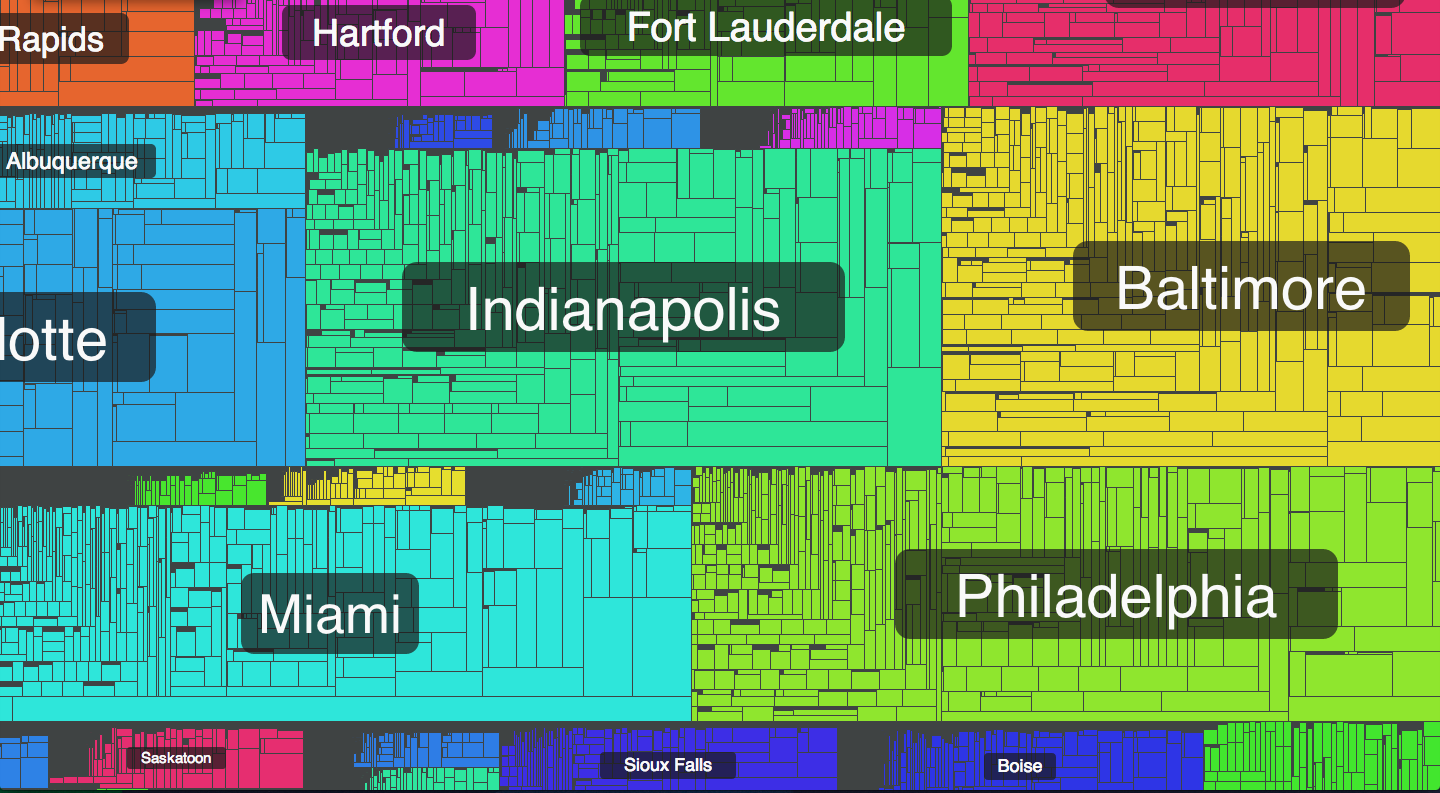
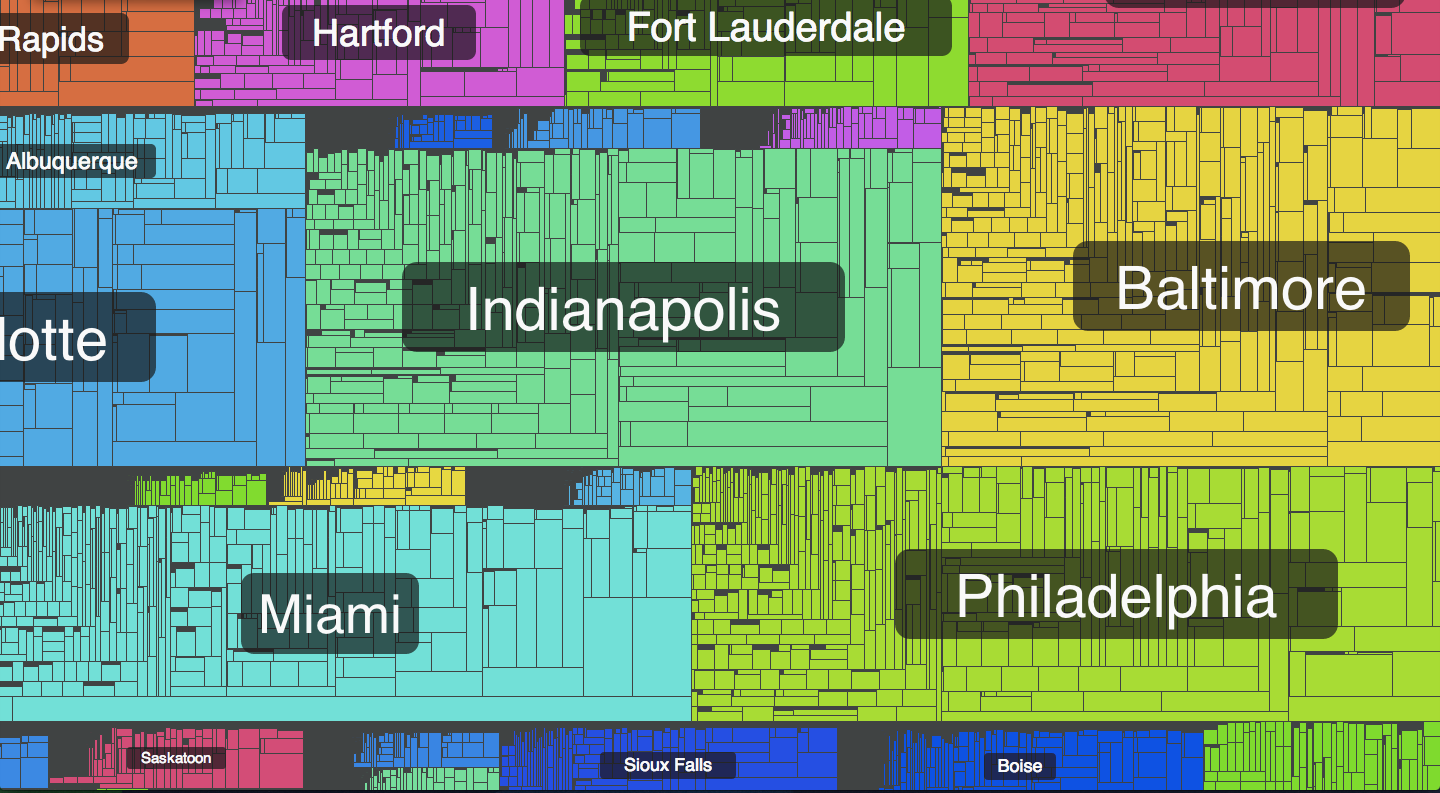
re-did image generation

diff --git a/src/documents/styles/screen.css.scss b/src/documents/styles/screen.css.scss
@@ -10,7 +10,7 @@ body {
 
 div.header {
   background-color: black;
-  padding: 20px 0;
+  padding: 10px 0;
   margin-bottom: 30px;
 
   .head-inner {
@@ -22,7 +22,7 @@ div.header {
     position: absolute;
     right: 0;
     bottom: 0;
-    margin-bottom: 0;
+    margin-bottom: -7px;
 
     li {
       display: inline;

diff --git a/src/documents/projects/fbmap.html.md b/src/documents/projects/fbmap.html.md
@@ -1,0 +1,9 @@
+---
+type: project
+slug: fbmap
+name: Visualizing Facebook Friends
+date: December, 2010
+format: interactive HTML5
+link: "http://fbmap.bitaesthetics.com/"
+---
+Visualization of 10 million Facebook friend pairs.

diff --git a/src/documents/projects/nycbm.html.md b/src/documents/projects/nycbm.html.md
@@ -1,7 +1,7 @@
 ---
 type: project
 slug: nycbm
-name: New York City Place-of-Birth Map
+name: NYC Place-of-Birth Map
 date: December, 2012
 format: print
 link: "http://nycbm.bitaesthetics.com"
